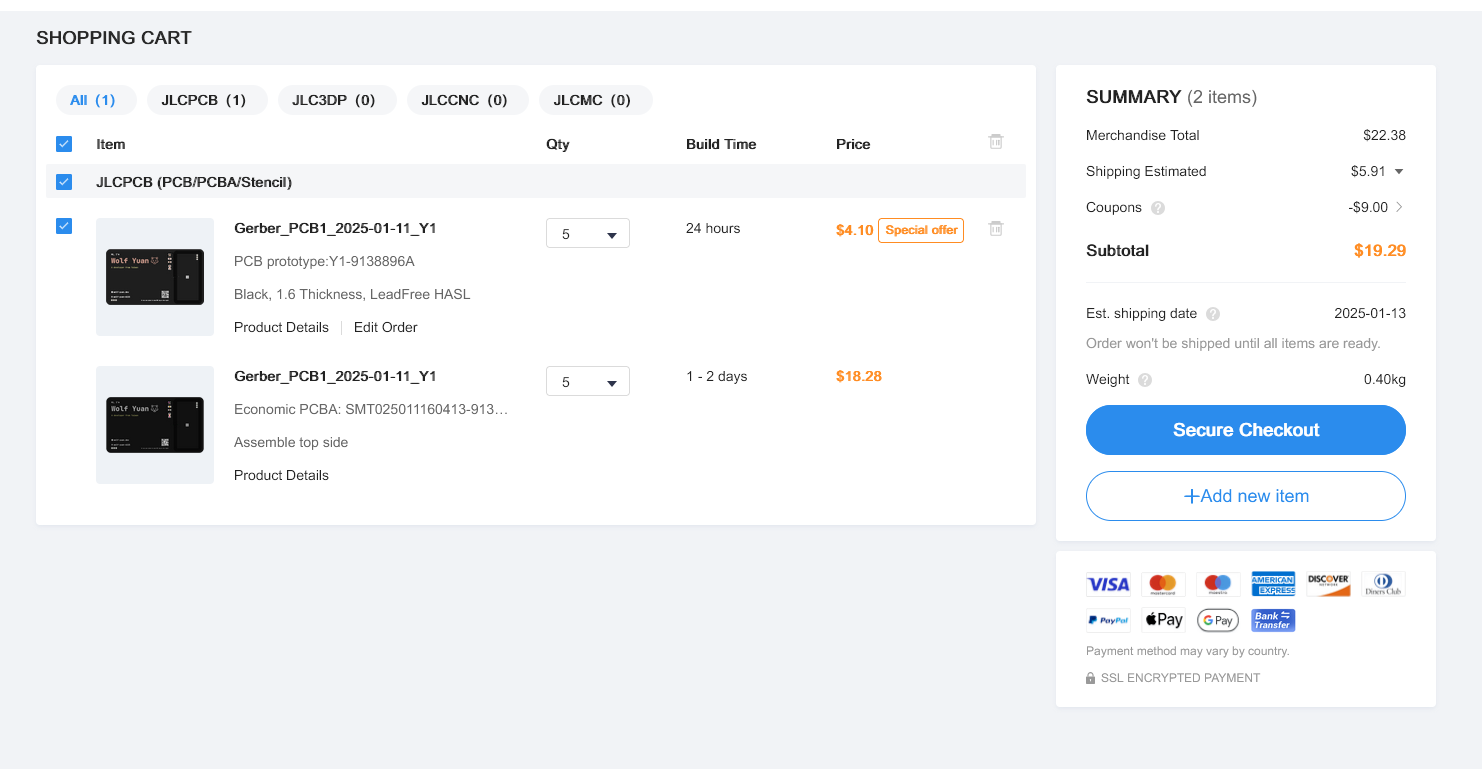
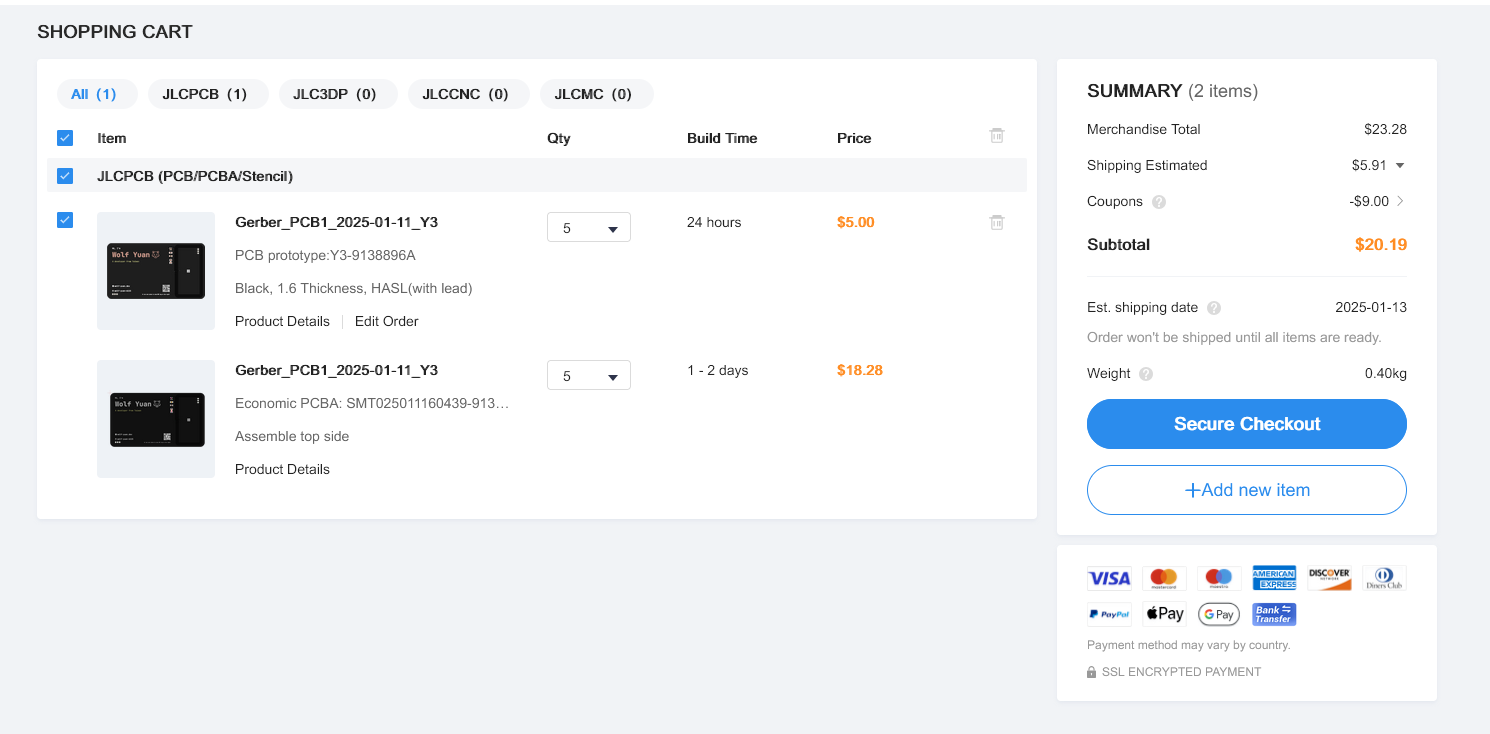
chore: update price

diff --git a/projects/Wolf's hacker board/README.md b/projects/Wolf's hacker board/README.md
@@ -9,6 +9,6 @@ tutorial: https://jams.hackclub.com/jam/hacker-card
 
 Basically just [Hacker Board](https://jams.hackclub.com/jam/hacker-card) with some customizations. Added Hack Club flag and reflect [my website design](https://wolf-yuan.dev).
 
-Final cost is $19.29 USD (PCB + Assemble, and probably shipping).
+Final cost is $20.19 USD (PCB + Assemble, and probably shipping).
 
 The board is in black btw.
